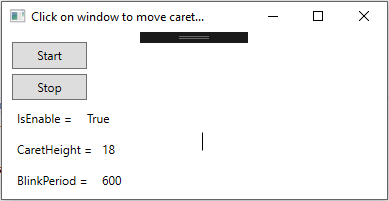
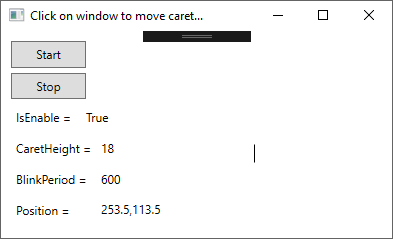
Little modification

Changed region(s): [[0.0, 0.0, 1.0, 1.0], [0.2468, 0.8358, 0.4319, 0.9254], [0.6787, 0.0597, 0.7404, 0.0896]]

diff --git a/WpfCaretSample/MainWindow.xaml b/WpfCaretSample/MainWindow.xaml
@@ -4,7 +4,7 @@
         xmlns:d="http://schemas.microsoft.com/expression/blend/2008"
         xmlns:mc="http://schemas.openxmlformats.org/markup-compatibility/2006"
         mc:Ignorable="d" MouseDown="MainWindow_OnMouseDown"
-        Title="Click on window to move caret..." Height="206" Width="401">
+        Title="Click on window to move caret..." Height="237.333" Width="401">
     <Grid x:Name="MainGrid">
         <Button Content="Start" HorizontalAlignment="Left" VerticalAlignment="Top" Width="75" Margin="10,10,0,0" Click="Button_Click" Height="27"/>
         <Button Content="Stop" HorizontalAlignment="Left" VerticalAlignment="Top" Width="75" Margin="10,42,0,0" Click="Button_Click_1" Height="26"/>
@@ -14,6 +14,8 @@
         <Label Content="{Binding CaretHeight}" HorizontalAlignment="Left" VerticalAlignment="Top" Margin="95,104,0,0" />
         <Label Content="BlinkPeriod =" HorizontalAlignment="Left" VerticalAlignment="Top" Margin="10,135,0,0" />
         <Label Content="{Binding BlinkPeriod}" HorizontalAlignment="Left" VerticalAlignment="Top" Margin="95,135,0,0" />
+        <Label Content="Position =" HorizontalAlignment="Left" VerticalAlignment="Top" Margin="10,166,0,0" />
+        <Label Content="{Binding Position}" HorizontalAlignment="Left" VerticalAlignment="Top" Margin="95,165,0,0" />
 
     </Grid>
 </Window>

diff --git a/WpfCaret/Caret.cs b/WpfCaret/Caret.cs
@@ -71,32 +71,41 @@ namespace WpfCaret
         }
 
         /// <summary>
+        /// Get the relative position of the caret
+        /// </summary>
+        public Point Position => new Point(Left, Top);
+
+        /// <summary>
         /// Left position of the caret
         /// </summary>
-        public double Left
+        private double Left
         {
             get => _location.X;
-            internal set
+            set
             {
                 if (_location.X == value) return;
                 
                 _location.X = Math.Floor(value) + .5; //to avoid WPF antialiasing
                 if (Visible) Visible = false;
+
+                OnPropertyChanged(nameof(Position));
             }
         }
 
         /// <summary>
         /// Top position of the caret
         /// </summary>
-        public double Top
+        private double Top
         {
             get => _location.Y;
-            internal set
+            set
             {
                 if (_location.Y == value) return;
 
                 _location.Y = Math.Floor(value) + .5; //to avoid WPF antialiasing
                 if (Visible) Visible = false;
+
+                OnPropertyChanged(nameof(Position));
             }
         }
         
